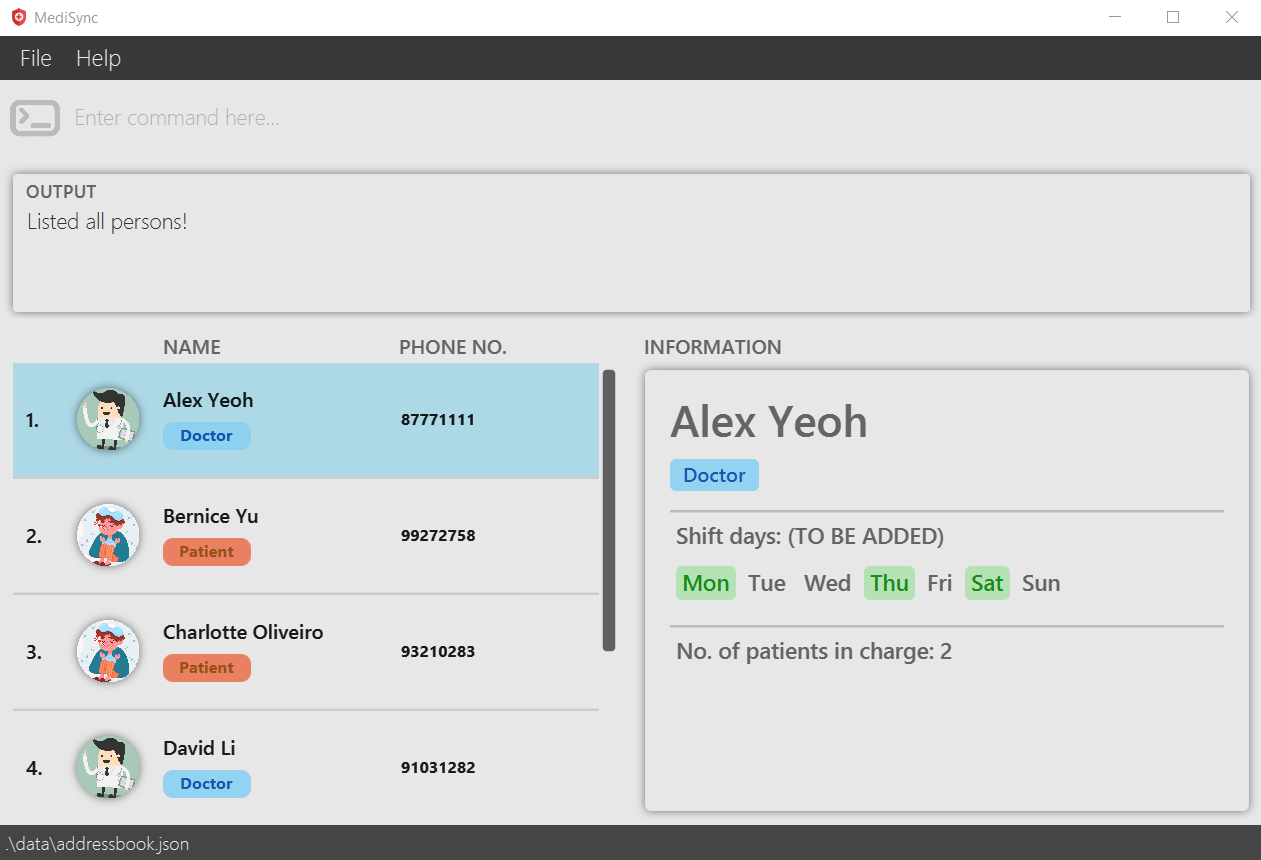
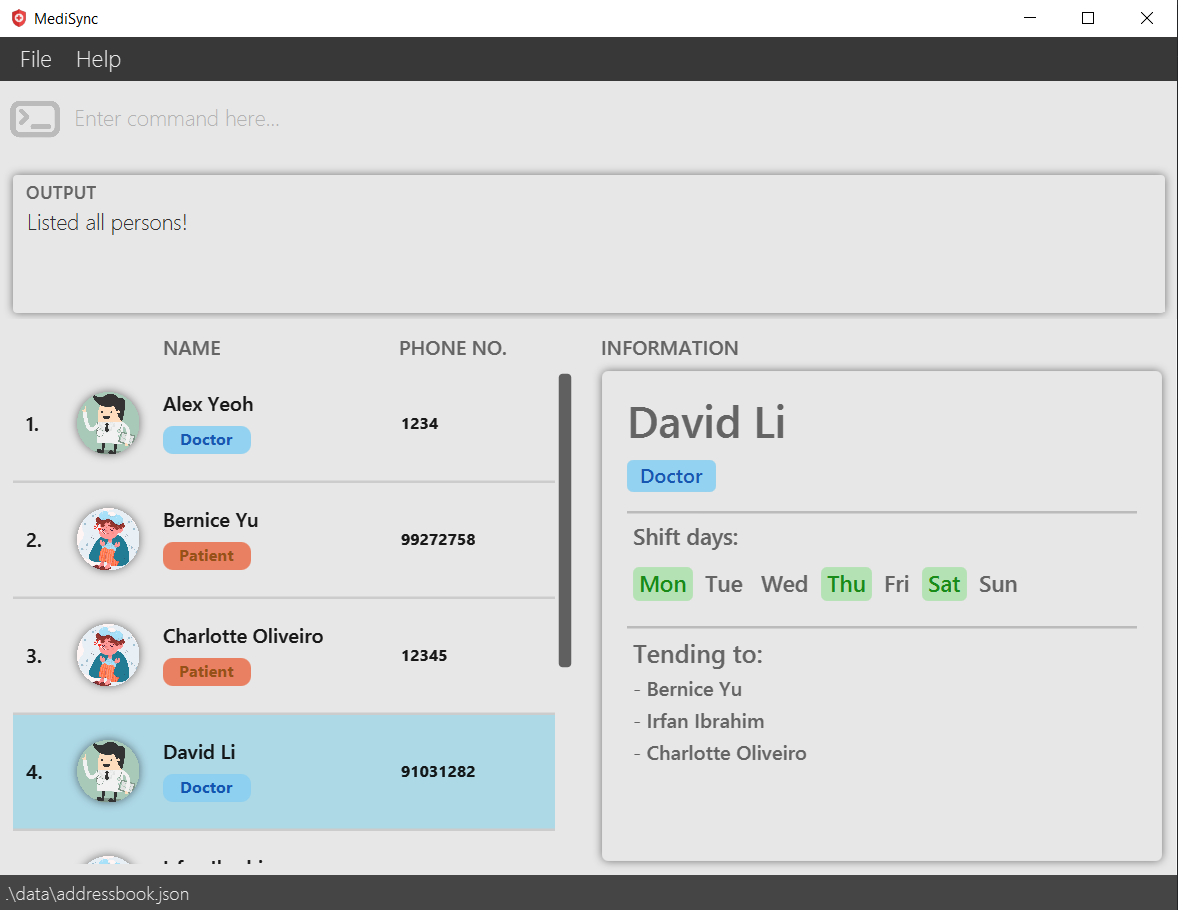
Fix Ui bugs and add affiliations into InformationWindow

diff --git a/src/main/resources/view/Theme.css b/src/main/resources/view/Theme.css
@@ -154,7 +154,11 @@
 }
 
 .information-affn {
-    -fx-font-size: 18px;
+    -fx-font-size: 20px;
+}
+
+.information-affn-list {
+    -fx-font-size: 16px;
 }
 
 .scroll-pane > .viewport {

diff --git a/src/main/java/seedu/address/ui/InformationWindow.java b/src/main/java/seedu/address/ui/InformationWindow.java
@@ -4,9 +4,9 @@ import static java.util.Objects.requireNonNull;
 
 import javafx.fxml.FXML;
 import javafx.scene.control.Label;
-import javafx.scene.layout.HBox;
 import javafx.scene.layout.Region;
 import javafx.scene.layout.VBox;
+import seedu.address.model.affiliation.Affiliation;
 import seedu.address.model.person.Person;
 import seedu.address.model.person.Role;
 
@@ -43,10 +43,11 @@ public class InformationWindow extends UiPart<Region> {
     private Label shiftSun;
 
     @FXML
-    private HBox affnBlock;
+    private VBox affnBlock;
     @FXML
     private Label affnCount;
-
+    @FXML
+    private VBox affnListBlock;
 
     /**
      * Initialises the {@code InformationWindow}.
@@ -85,7 +86,8 @@ public class InformationWindow extends UiPart<Region> {
     private void displayDoctorInformation(Person person) {
         role.setStyle("-fx-background-color: #89CFF0; -fx-font-weight: bold; -fx-text-fill: #0047AB");
         setShiftDays(person);
-        affnCount.setText("No. of patients in charge: " + person.getAffiliations().size());
+        setAffiliations(person);
+        affnCount.setText("Tending to:");
         affnBlock.setStyle("-fx-border-color: #BBBBBB; -fx-border-width: 2 0 0 0;");
     }
 
@@ -96,7 +98,8 @@ public class InformationWindow extends UiPart<Region> {
     private void displayPatientInformation(Person person) {
         role.setStyle("-fx-background-color: #E97451; -fx-font-weight: bold; -fx-text-fill: #8B4000");
         clearShiftDays();
-        affnCount.setText("Staff overhead: " + person.getAffiliations().size());
+        setAffiliations(person);
+        affnCount.setText("Attended by:");
         affnBlock.setStyle("-fx-border-color: #BBBBBB; -fx-border-width: 2 0 0 0;");
     }
 
@@ -109,7 +112,7 @@ public class InformationWindow extends UiPart<Region> {
         shiftBlock.setVisible(true);
         shiftBlock.setManaged(true);
         shiftBlock.setStyle("-fx-border-color: #BBBBBB; -fx-border-width: 2 0 0 0;");
-        shiftHeader.setText("Shift days: (TO BE ADDED)");
+        shiftHeader.setText("Shift days:");
 
         // Function to be modified in the future. Currently picks only Mon, Thu and Sat.
         shiftMon.setStyle("-fx-background-color: #AFE1AF; -fx-font-weight: bold; -fx-text-fill: #008000");
@@ -119,6 +122,32 @@ public class InformationWindow extends UiPart<Region> {
         // shiftFri.setStyle("-fx-background-color: #89CFF0; -fx-font-weight: bold; -fx-text-fill: #0047AB");
         shiftSat.setStyle("-fx-background-color: #AFE1AF; -fx-font-weight: bold; -fx-text-fill: #008000");
         // shiftSun.setStyle("-fx-background-color: #89CFF0; -fx-font-weight: bold; -fx-text-fill: #0047AB");
+    }
+
+    /**
+     * Sets the list of affiliation names into the information window.
+     */
+    private void setAffiliations(Person person) {
+        clearAffiliations();
+        for (Affiliation affiliation : person.getAffiliations()) {
+            String name = affiliation.toString();
+            Label label = new Label("- " + name);
+            label.getStyleClass().add("information-affn-list");
+            affnListBlock.getChildren().add(label);
+        }
+
+        if (affnListBlock.getChildren().size() == 0) {
+            Label label = new Label("[EMPTY]");
+            label.getStyleClass().add("information-affn-list");
+            affnListBlock.getChildren().add(label);
+        }
+    }
+
+    /**
+     * Removes all affiliation names from the information window.
+     */
+    private void clearAffiliations() {
+        affnListBlock.getChildren().clear();
     }
 
     /**
@@ -135,6 +164,7 @@ public class InformationWindow extends UiPart<Region> {
     public void showWindow() {
         fullWindow.setVisible(true);
         fullWindow.setManaged(true);
+        fullWindow.setMinSize(Region.USE_COMPUTED_SIZE, Region.USE_COMPUTED_SIZE);
     }
 
     /**
@@ -143,6 +173,7 @@ public class InformationWindow extends UiPart<Region> {
     public void resetWindow() {
         fullWindow.setVisible(false);
         fullWindow.setManaged(false);
+        fullWindow.setMinSize(0, 0);
     }
 
 }

diff --git a/src/main/java/seedu/address/logic/commands/EditCommand.java b/src/main/java/seedu/address/logic/commands/EditCommand.java
@@ -109,7 +109,7 @@ public class EditCommand extends Command {
         }
 
         if (this.editPersonDescriptor.isRoleEdited()) {
-            if (!isNull(personToEdit.getAffiliations()) && personToEdit.getAffiliations().isEmpty()) {
+            if (!isNull(personToEdit.getAffiliations()) && !personToEdit.getAffiliations().isEmpty()) {
                 throw new CommandException(MESSAGE_EDIT_ROLE_CONTAIN_AFFILIATION);
             }
         }
@@ -120,7 +120,7 @@ public class EditCommand extends Command {
         }
         if (this.editPersonDescriptor.isAffiliationEdited()) {
             AuthenticateAffiliation.check(editedPerson, model);
-            AffiliationModifier.addAffiliationHistory(editedPerson.getAffiliationHistory(), editedPerson, model);
+            AffiliationModifier.addAffiliationHistory(editedPerson.getAffiliations(), editedPerson, model);
             AffiliationModifier.removeAffiliations(personToEdit.getAffiliations(), editedPerson, model);
             AffiliationModifier.addAffiliations(editedPerson.getAffiliations(), editedPerson, model);
         }

diff --git a/src/main/java/seedu/address/ui/PersonListPanel.java b/src/main/java/seedu/address/ui/PersonListPanel.java
@@ -29,8 +29,14 @@ public class PersonListPanel extends UiPart<Region> {
         super(FXML);
         personListView.setItems(personList);
         personListView.setCellFactory(listView -> new PersonListViewCell());
-
         this.informationWindow = informationWindow;
+    }
+
+    /**
+     * Clears any selection of {@code PersonCard}.
+     */
+    public void unselectPersonCard() {
+        personListView.getSelectionModel().clearSelection();
     }
 
     /**
@@ -42,7 +48,9 @@ public class PersonListPanel extends UiPart<Region> {
             setOnMouseClicked(event -> {
                 if (event.getClickCount() == 1) {
                     Person selectedPerson = getItem();
-                    informationWindow.displayInformation(selectedPerson);
+                    if (selectedPerson != null) {
+                        informationWindow.displayInformation(selectedPerson);
+                    }
                 }
             });
         }

diff --git a/src/main/java/seedu/address/ui/UiManager.java b/src/main/java/seedu/address/ui/UiManager.java
@@ -65,7 +65,7 @@ public class UiManager implements Ui {
     private static void showAlertDialogAndWait(Stage owner, AlertType type, String title, String headerText,
                                                String contentText) {
         final Alert alert = new Alert(type);
-        alert.getDialogPane().getStylesheets().add("view/DarkTheme.css");
+        alert.getDialogPane().getStylesheets().add("view/Theme.css");
         alert.initOwner(owner);
         alert.setTitle(title);
         alert.setHeaderText(headerText);

diff --git a/src/main/java/seedu/address/ui/MainWindow.java b/src/main/java/seedu/address/ui/MainWindow.java
@@ -203,6 +203,9 @@ public class MainWindow extends UiPart<Stage> {
             // Every command successfully executed will reset the information window.
             informationWindow.resetWindow();
 
+            // Clear selection of any PersonCard.
+            personListPanel.unselectPersonCard();
+
             return commandResult;
         } catch (CommandException | ParseException e) {
             logger.info("An error occurred while executing command: " + commandText);

diff --git a/src/main/java/seedu/address/model/affiliation/Affiliation.java b/src/main/java/seedu/address/model/affiliation/Affiliation.java
@@ -4,7 +4,7 @@ import static java.util.Objects.requireNonNull;
 import static seedu.address.commons.util.AppUtil.checkArgument;
 
 /**
- * Represents a Affiliation in the contact list.
+ * Represents an Affiliation in the contact list.
  * Guarantees: immutable; name is valid as declared in {@link #isValidAffiliationName(String)}
  */
 public class Affiliation {
